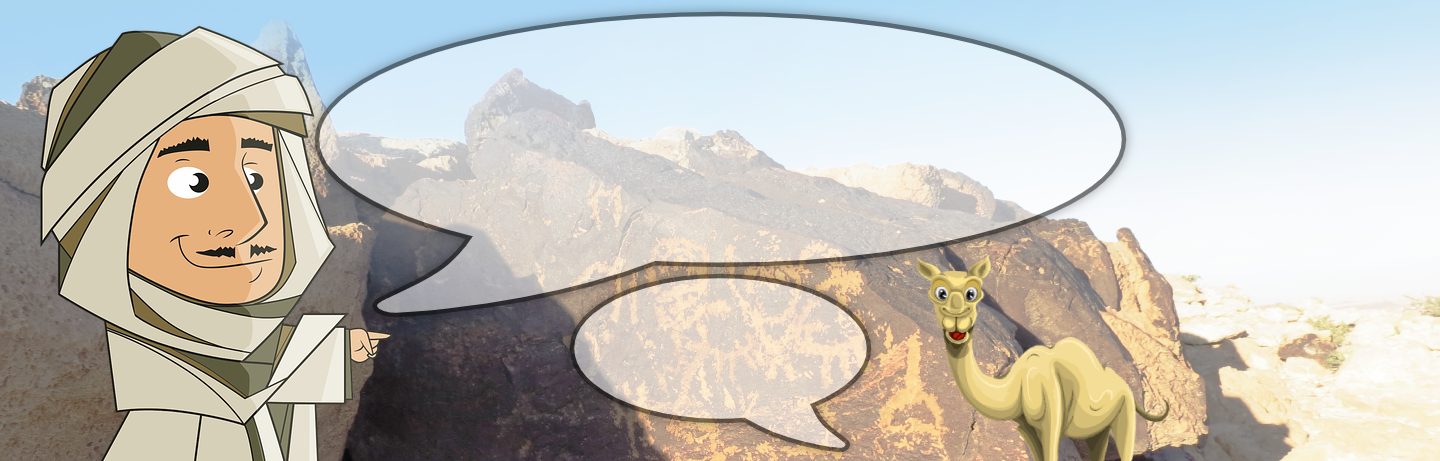
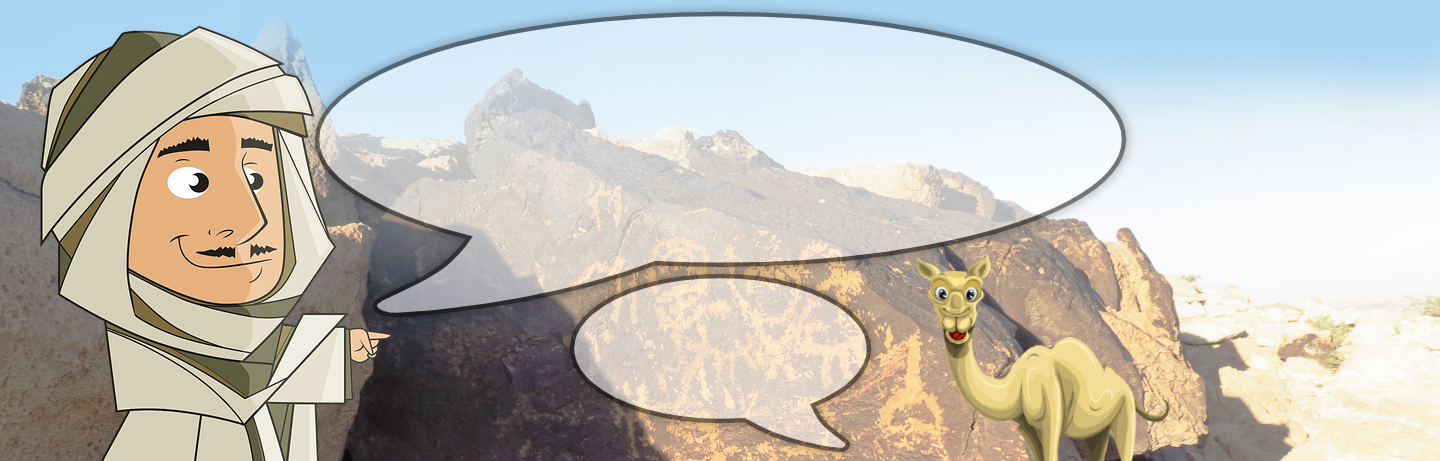
25.4 changes

Changed region(s): [[0.75, 0.0, 1.0, 0.1822]]

diff --git a/components/Quize.js b/components/Quize.js
@@ -1,5 +1,5 @@
 import React ,  {Component} from 'react';
-import { StyleSheet, Text, View,TextInput,Button, TouchableOpacity } from 'react-native';
+import { StyleSheet, Text, View,TextInput,Button, TouchableOpacity , Image } from 'react-native';
 
 
 class Quize extends Component {
@@ -110,19 +110,23 @@ class Quize extends Component {
            
             <View >
                 {this.state.showRightAnswerScreen ? (
-                  
+                  <View style={styles.answerScreen}>
+                  <Image source={{uri: 'https://firebasestorage.googleapis.com/v0/b/finalprojectrn.appspot.com/o/game%2Fhappy_girl.png?alt=media&token=de37e4bc-bde1-499c-94fd-71a91f7d8207'}} style={styles.image}/>
                   <Text style = { styles.text}>
                    כל הכבוד! הרווחת 10 נקודות
                   </Text>
-
+                  </View>
                 ) : null}
             </View>
 
             <View >
                 {this.state.showWrongAnswerScreen ? (
-                    <Text style = { styles.text}>
-                    תשובה שגויה, אולי תצליח בחידה הבאה...
+                  <View style={styles.answerScreen}>
+                  <Image source={{uri: 'https://firebasestorage.googleapis.com/v0/b/finalprojectrn.appspot.com/o/game%2Funhappy_girl.png?alt=media&token=46390353-c9e7-42ad-934b-6ea9b19a7eff'}} style={styles.image}/>
+                  <Text style = { styles.text}>
+                  תשובה שגויה, אולי תצליח בחידה הבאה...
                   </Text>
+                  </View>
                 ) : null}
             </View>
             </View>
@@ -133,6 +137,11 @@ class Quize extends Component {
 export default Quize;
 
 const styles = StyleSheet.create({
+
+  answerScreen: {
+    alignItems: 'center',
+    alignContent: 'center'
+  },
        
     container: {
       flex:1,
@@ -208,6 +217,13 @@ const styles = StyleSheet.create({
     borderBottomRightRadius: 5,
     borderBottomLeftRadius: 5,
     elevation: 2,
+  },
+
+  image: {
+    width:130,
+    height: 130,
+    resizeMode:'contain'
+    
   }
   
   

diff --git a/screens/HomeScreen.js b/screens/HomeScreen.js
@@ -45,17 +45,29 @@ handleBackButton() {
     return (
      
       <ImageBackground source={{uri: 'https://firebasestorage.googleapis.com/v0/b/finalprojectrn.appspot.com/o/backgrounds%2FHome_Back.png?alt=media&token=1fc02144-9d63-40ba-8e70-66ce16278a94' }} style={styles.backgroundImage}> 
-      <View style={styles.container}>
+      <View style={styles.main}>
       <MenuButton navigation={this.props.navigation} showIcon={true} />
+      <View style={styles.container}>
       <View style={styles.TextSection}>
       <ScrollView persistentScrollbar={true} >
       <Text style={styles.textHeader}>
-      רקע לחרותות הסלע ופירוט הפעולות באפליקציה
+      רקע לחרותות הסלע
       {"\n"}
       </Text>
       <Text style={styles.text}>
-      {/* {this.state.content[0].about} */}
-      {"\n"}{"\n"}
+      {/* {this.state.content[0].about} */}   
+      </Text>
+      </ScrollView>
+      </View>  
+
+      <View style={styles.TextSection}>
+      <ScrollView persistentScrollbar={true} >
+      <Text style={styles.textHeader}>
+      פירוט הפעולות באפליקציה
+      {"\n"}
+      </Text>
+      <Text style={styles.text}>
+      
       {/* {this.state.content[0].introduction} */}
 
       {"\n"}{"\n"}
@@ -64,6 +76,7 @@ handleBackButton() {
       </Text>
       </ScrollView>
       </View>       
+      </View>
       </View>
       </ImageBackground>  
     );
@@ -78,15 +91,25 @@ const styles = StyleSheet.create({
     height: null,  
     resizeMode:'stretch',
   }, 
-  container: {
-    height: '100%',
-    paddingBottom: '13%',
+
+  main: {
+    flex:1,
     alignItems: 'center',
     justifyContent: 'flex-end',
+    paddingBottom: '12%',
+    // backgroundColor: 'pink'
+  },
+  container: {
+    height: '60%',
+    width: '60%',
+    alignItems: 'center',
+    justifyContent: 'space-between',
+    // backgroundColor: 'blue'
   },
   TextSection:{
-    width:'80%',
-    height: '63%',
+    // backgroundColor: 'green',
+    width: '100%',
+    height: '42%',
     justifyContent: "center",
     alignItems: "center",
     

diff --git a/screens/Game_menu.js b/screens/Game_menu.js
@@ -15,7 +15,7 @@ export default class Game_menu extends React.Component {
 
   return (
 
-<ImageBackground source={{uri : 'https://firebasestorage.googleapis.com/v0/b/finalprojectrn.appspot.com/o/backgrounds%2Fgame_background.png?alt=media&token=74e3f8c6-7e96-4d62-958e-554399782009'}} style={styles.backgroundImage}> 
+<ImageBackground source={{uri : 'https://firebasestorage.googleapis.com/v0/b/finalprojectrn.appspot.com/o/backgrounds%2Fgame_background.png?alt=media&token=527522d4-4944-419e-a81e-fd85b074c9cc'}} style={styles.backgroundImage}> 
       
       <View style= {styles.Container }>
       <MenuButton navigation={this.props.navigation} showIcon={true} />

diff --git a/components/StoryList.js b/components/StoryList.js
@@ -37,6 +37,7 @@ export default class StoryList extends Component {
     }//QuizeDone
 
     componentDidMount(){
+      
       global.messege='יש לנו כמה חידות מעניינות בשבילך...'
       const storiesRef = firebase.database().ref('Stories');
       this.listenForStories(storiesRef);//taking the data from database
@@ -125,14 +126,13 @@ render() {
 }//class
 
 
-
 const styles = {
 
   main:{
-
+    flex:1,
     width: Dimensions.get('window').width,
     height: Dimensions.get('window').height,
-
+    backgroundColor: "#abd6f4", 
   },
   
   viewStory: {

diff --git a/components/gameBanner.js b/components/gameBanner.js
@@ -41,7 +41,7 @@ viewStyle=function () {
   bottom: 0,
   left: 0,   
   width: '100%',
-  height: (Dimensions.get('window').width*source.height)/source.width,
+  height: (((Dimensions.get('window').width)*source.height)/source.width),
   alignItems: 'center',
   
   }
@@ -62,7 +62,8 @@ textStyling: {
 
 messegeSection: {
   
-  position: 'absolute', bottom: 68,
+  position: 'absolute', 
+  bottom: 78,
   zIndex: 9,
   width: '50%',
   // backgroundColor: 'blue',

diff --git a/components/global.js b/components/global.js
@@ -14,7 +14,7 @@ const Daniellatitude = 31.27087633366313 //Elena
 
 let icon =  require('../assets/gameBanner.png'); 
 let source = resolveAssetSource(icon);
-const gameHeight=Dimensions.get('window').height-((Dimensions.get('window').width*source.height)/source.width);
+const gameHeight=((Dimensions.get('window').height)-((Dimensions.get('window').width*source.height)/source.width));
 
 export default {
   score,

diff --git a/components/MenuDrawer.js b/components/MenuDrawer.js
@@ -102,6 +102,7 @@ const styles = StyleSheet.create({
 		alignItems: 'center',
 		borderBottomWidth: 1,
 		borderBottomColor: '#777777',
+		paddingStart: 20,
 	},
 	profileText: {
 		flex: 3,
@@ -136,6 +137,7 @@ const styles = StyleSheet.create({
 		flex: 1,
 		backgroundColor: 'white',
 		paddingBottom: 450,
+		
 	},
 	link: {
 		flex: 1,
